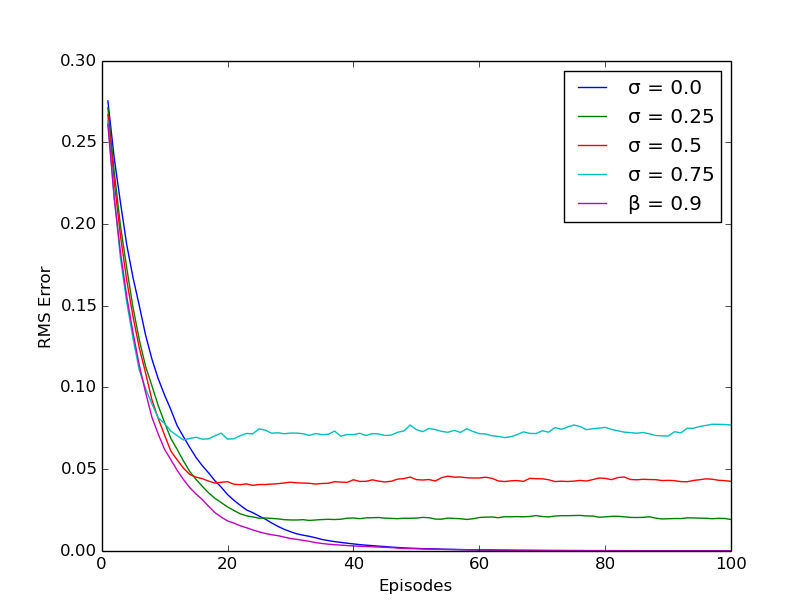
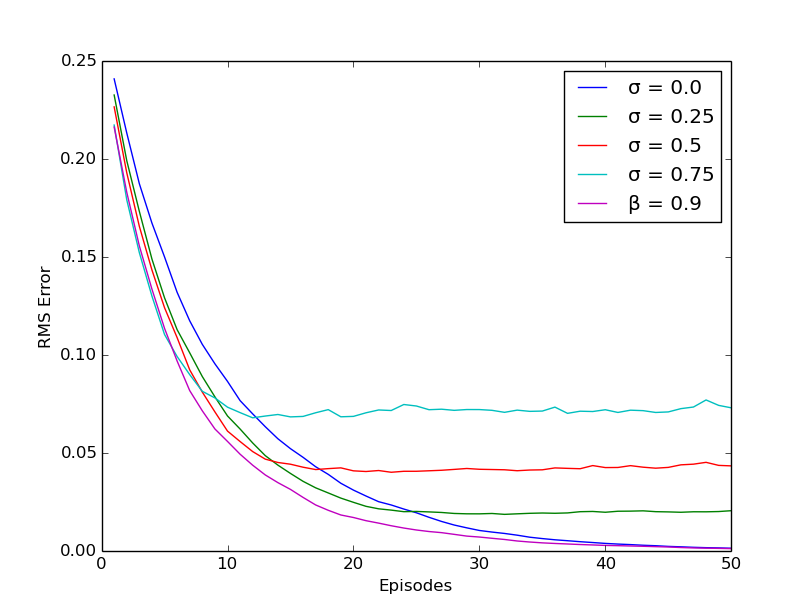
plot

diff --git a/results/plot_rw.py b/results/plot_rw.py
@@ -10,7 +10,7 @@ alphas = [0.1, 0.2, 0.3, 0.4, 0.5, 0.6, 0.7, 0.8, 0.9, 1.0]
 sigmas = [0.0, 0.25, 0.5, 0.75, 1.0,]
 
 #[steps, alpha, sigma, run, ep]
-eps = np.arange(1, 101)
+eps = np.arange(1, 51)
 
 fig = plt.figure()
 ax = fig.add_subplot(111)
@@ -20,7 +20,7 @@ ax.set_ylabel('RMS Error')
 ni = 2
 ai = 3
 for i in range(len(sigmas) - 1):
-  ax.plot(eps, rmse.mean(3)[ni][ai][i], label='σ = ' + str(sigmas[i]))
-ax.plot(eps, rmsed.mean(3)[ni][ai][0], label='β = 0.9')
+  ax.plot(eps, rmse.mean(3)[ni][ai][i][1:51], label='σ = ' + str(sigmas[i]))
+ax.plot(eps, rmsed.mean(3)[ni][ai][0][1:51], label='β = 0.9')
 ax.legend()
 plt.show()
